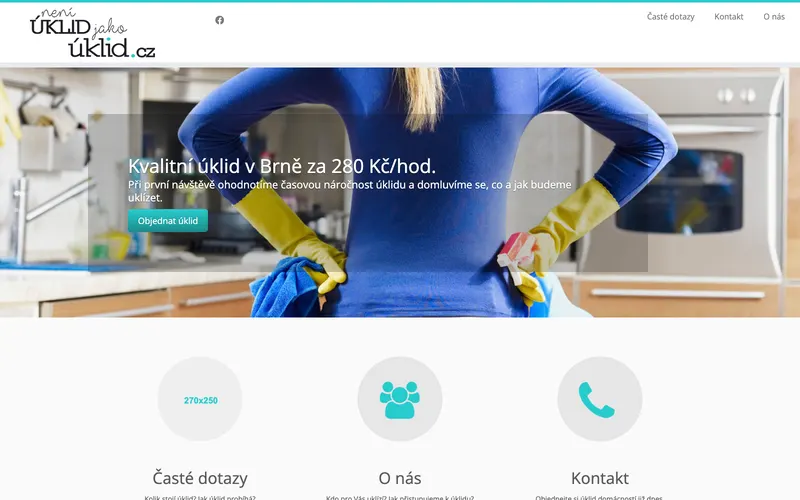
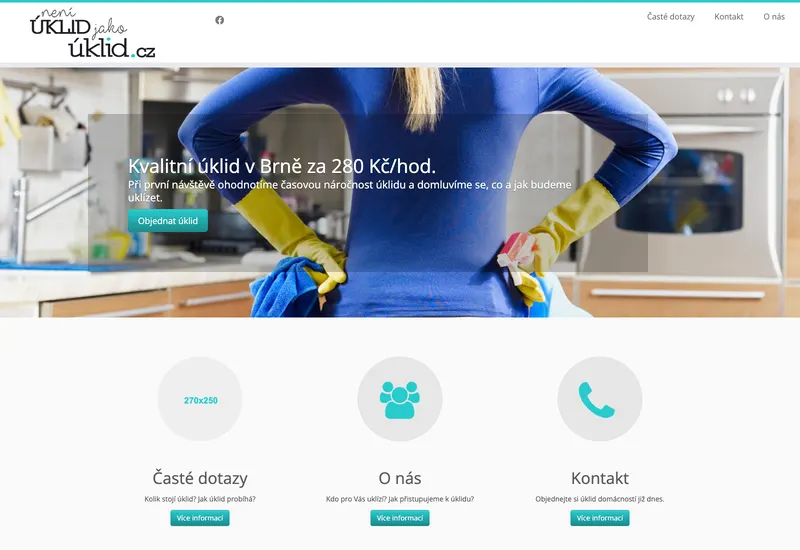
Není úklid case study: before shot cropped below the full bottom row

diff --git a/work/neniuklid.html b/work/neniuklid.html
@@ -73,7 +73,7 @@
       <p>Není úklid jako úklid roughly means “not all cleaning is the same”. The company has cleaned homes in Brno since 2013. The owner visits every new client in person, tries to send the same cleaner every time, and answers price questions with real numbers.</p>
       <p>The homepage showed none of that: a WordPress theme with a rotating slider, a stock photo of rubber gloves and an image placeholder that was never replaced.</p>
     </div>
-    <figure class="figure"><img src="../assets/img/neniuklid/before-desktop.webp" srcset="../assets/img/neniuklid/before-desktop-800.webp 800w, ../assets/img/neniuklid/before-desktop.webp 1600w" sizes="(max-width: 1200px) 92vw, 1100px" width="1600" height="1000" alt="The current homepage: a slider with a stock photo of a person in rubber gloves" loading="lazy"><figcaption>Before: the current homepage</figcaption></figure>
+    <figure class="figure"><img src="../assets/img/neniuklid/before-desktop.webp?v=2" srcset="../assets/img/neniuklid/before-desktop-800.webp?v=2 800w, ../assets/img/neniuklid/before-desktop.webp?v=2 1600w" sizes="(max-width: 1200px) 92vw, 1100px" width="1600" height="1100" alt="The current homepage: a slider with a stock photo of a person in rubber gloves" loading="lazy"><figcaption>Before: the current homepage</figcaption></figure>
   </div>
 </section>
 
